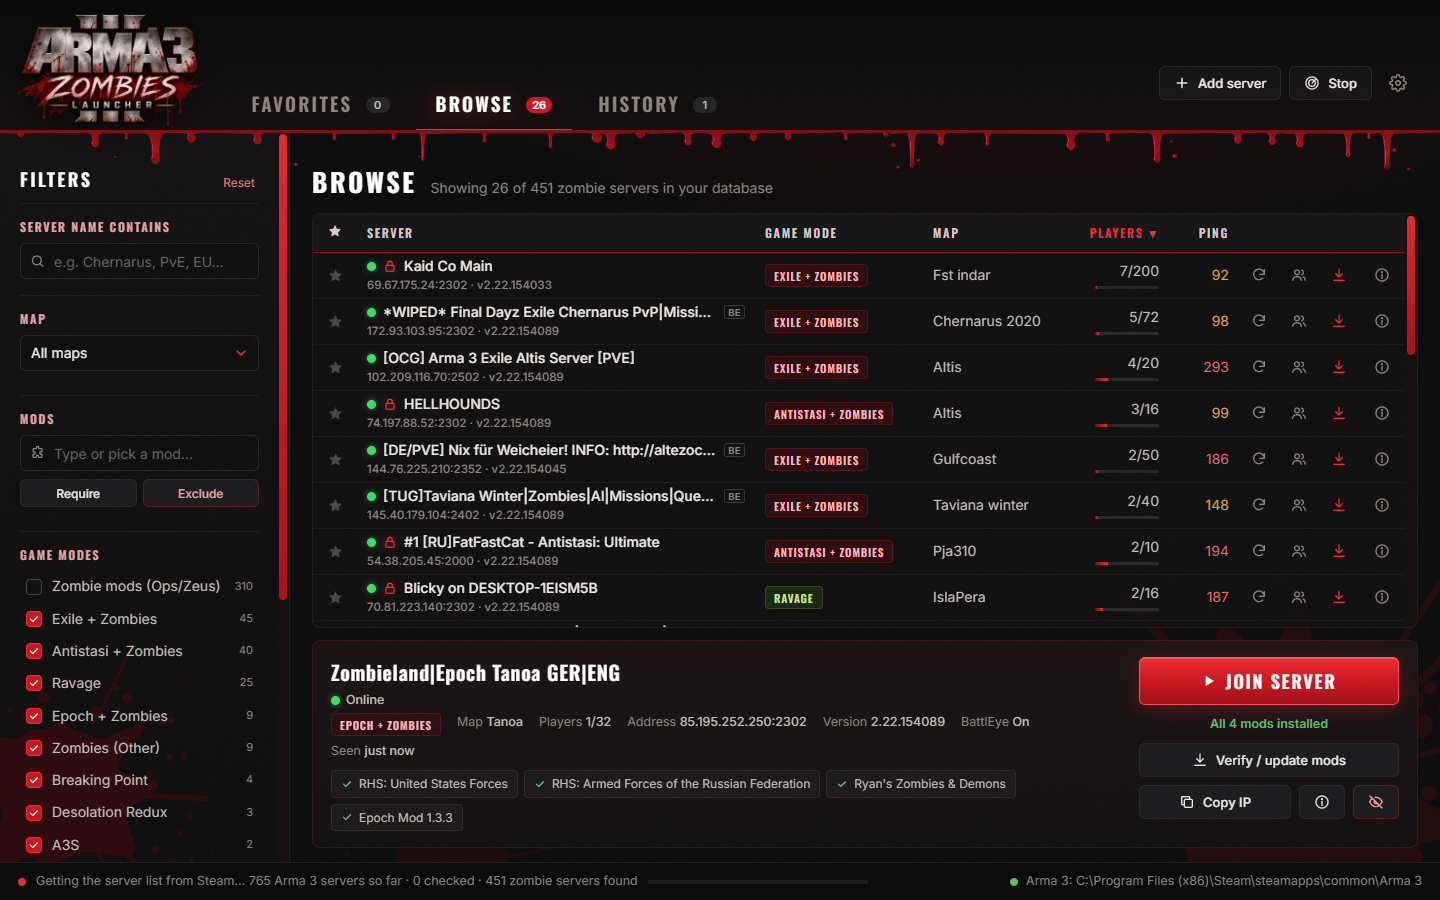
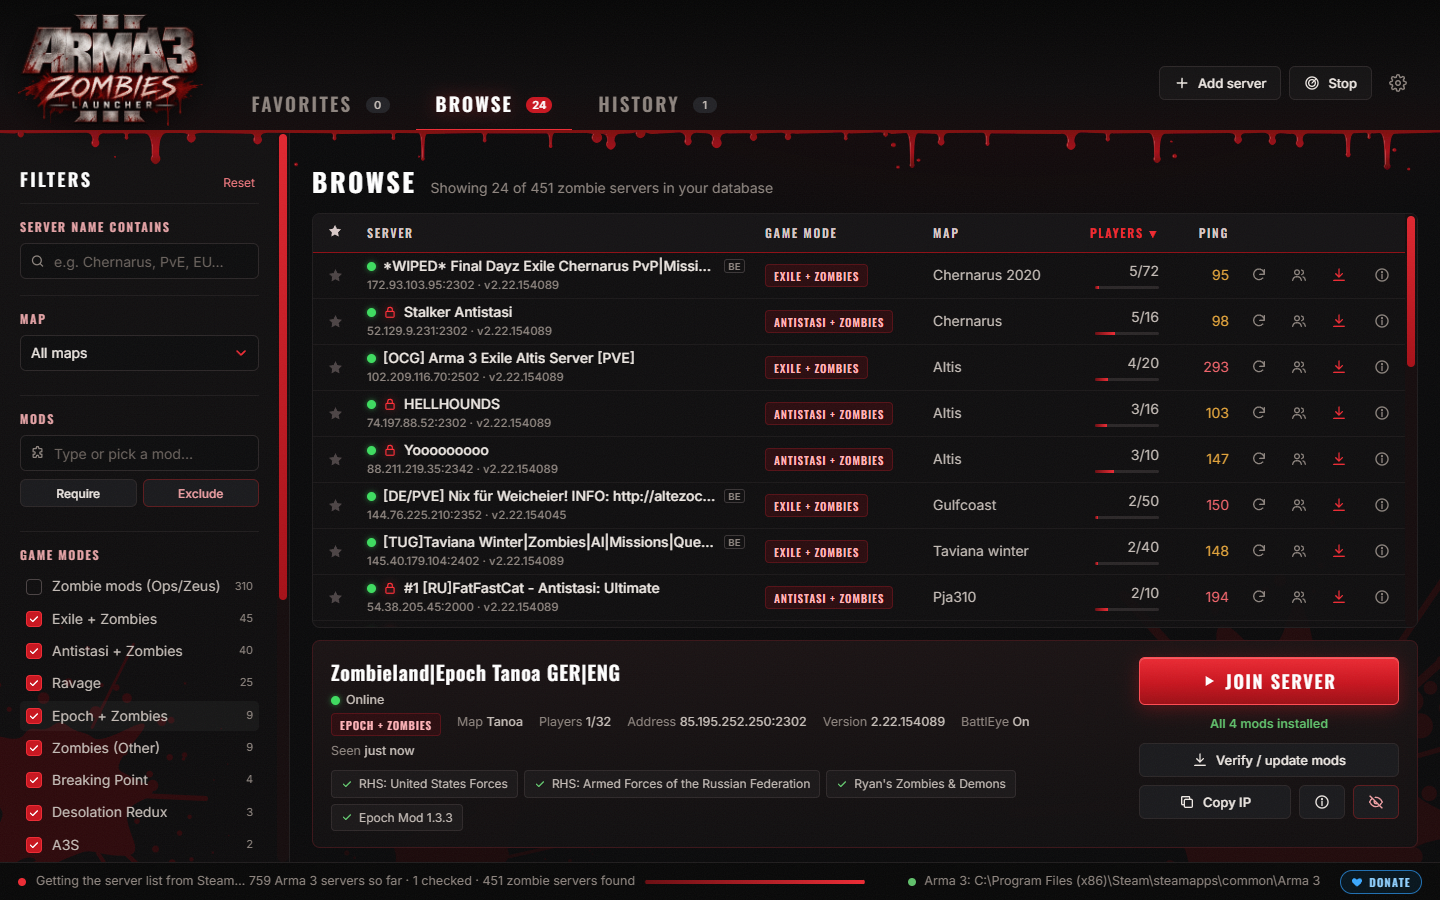
Add Donate button and refresh README screenshot
- Small blue "Donate" pill at the right of the status bar; opens the
  PayPal donate page in the default browser
- New showcase screenshot including the Donate button

diff --git a/src/renderer/styles.css b/src/renderer/styles.css
@@ -319,6 +319,16 @@ table.servers { width: 100%; border-collapse: collapse; table-layout: fixed; }
 .arma-state { display: flex; align-items: center; gap: 8px; white-space: nowrap; }
 .arma-state .dot { width: 8px; height: 8px; border-radius: 50%; }
 .arma-state .dot.ok { background: var(--ok); } .arma-state .dot.bad { background: var(--red-hi); }
+.donate-btn {
+  display: inline-flex; align-items: center; gap: 6px; height: 24px; padding: 0 10px; flex: none;
+  background: rgba(0, 112, 186, .12); border: 1px solid #1f6fb2; border-radius: 12px; cursor: pointer;
+  font: 600 11px var(--font-head); letter-spacing: .12em; text-transform: uppercase; color: #8fd0ff;
+  transition: background .12s, color .12s, border-color .12s, box-shadow .12s;
+}
+.donate-btn svg { width: 12px; height: 12px; color: #3aa8ff; }
+.donate-btn:hover { background: #0070ba; border-color: #3aa8ff; color: #fff; box-shadow: 0 0 12px rgba(0, 156, 222, .5); }
+.donate-btn:hover svg { color: #fff; }
+.donate-btn:focus-visible { outline: 2px solid #3aa8ff; outline-offset: 2px; }
 
 /* ---------- toasts ---------- */
 .toasts { position: fixed; right: 18px; bottom: calc(var(--status-h) + 14px); z-index: 50; display: flex; flex-direction: column; gap: 8px; width: 340px; }

diff --git a/src/renderer/app.js b/src/renderer/app.js
@@ -21,6 +21,8 @@ const S = {
   progress: { phase: 'idle' },
 };
 
+const DONATE_URL = 'https://www.paypal.com/donate/?hosted_button_id=C8MKC6UF4QZE2';
+
 const SHOW_OPTS = [
   ['full', 'Full servers'],
   ['password', 'Password protected'],
@@ -837,6 +839,7 @@ function switchTab(tab) { S.tab = tab; S.selected = S.selected && rowsFor(tab).s
 function wire() {
   $$('.tab').forEach((t) => t.addEventListener('click', () => switchTab(t.dataset.tab)));
   $('#btn-settings').onclick = openSettings;
+  $('#btn-donate').onclick = () => zl.openExternal(DONATE_URL);
   $('#btn-add').onclick = openAddServer;
   $('#btn-scan').onclick = () => (S.progress.phase !== 'idle' ? zl.stopScan() : zl.scan());
 

diff --git a/src/renderer/index.html b/src/renderer/index.html
@@ -105,6 +105,10 @@
       <div class="bar"><div class="bar-fill" id="scan-bar"></div></div>
     </div>
     <div class="arma-state" id="arma-state"></div>
+    <button class="donate-btn" id="btn-donate" title="Support Zombies Launcher on PayPal">
+      <svg viewBox="0 0 24 24"><path d="M12 21s-7.5-4.6-9.6-9.3C.9 8.2 3.1 4.5 6.7 4.5c2.1 0 3.6 1.1 4.4 2.5h1.8c.8-1.4 2.3-2.5 4.4-2.5 3.6 0 5.8 3.7 4.3 7.2C19.5 16.4 12 21 12 21z"/></svg>
+      <span>Donate</span>
+    </button>
   </footer>
 
   <div class="toasts" id="toasts"></div>
